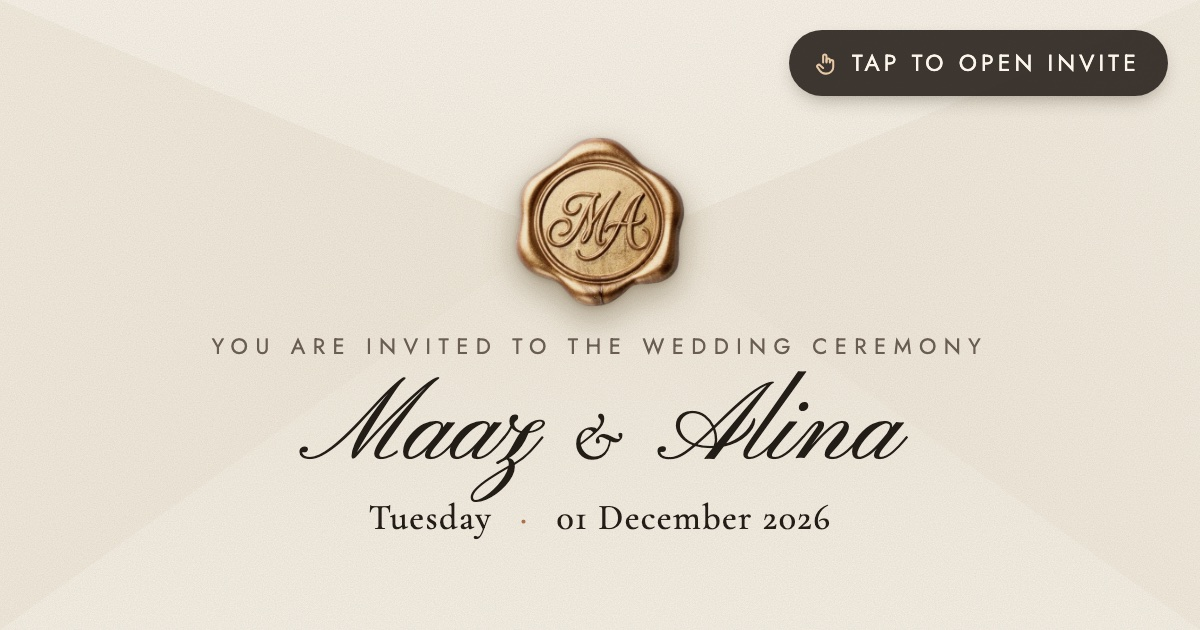
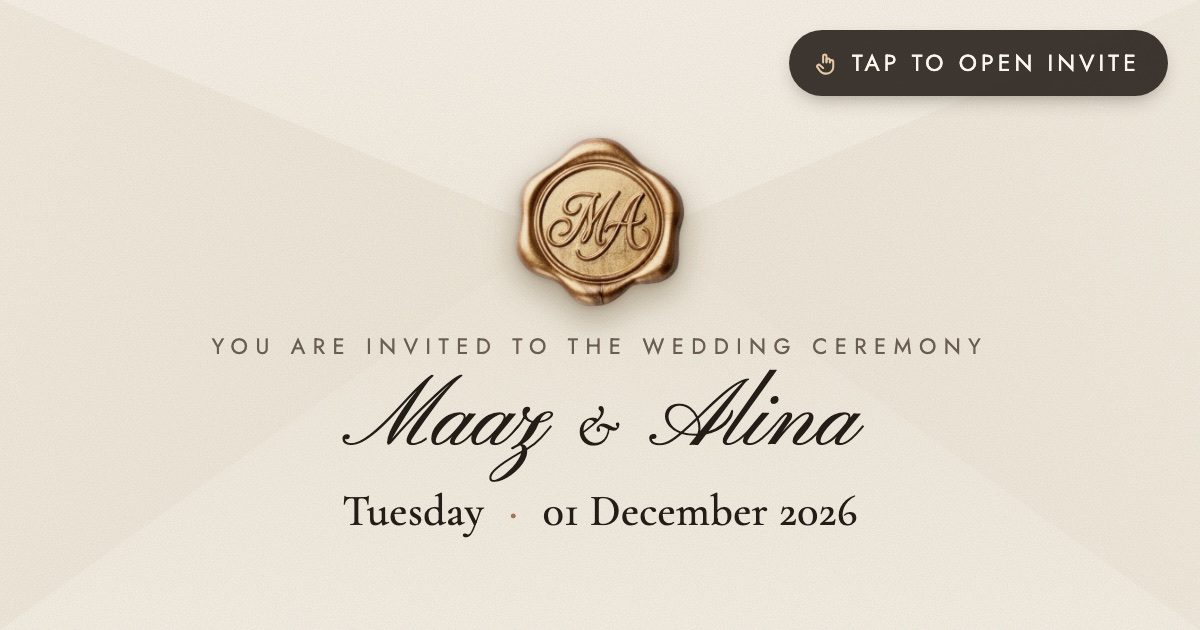
Preview cards: slightly smaller names, larger date line

Changed region(s): [[0.2467, 0.573, 0.7708, 0.7841], [0.2775, 0.7841, 0.7092, 0.8444]]

diff --git a/index.html b/index.html
@@ -10,7 +10,7 @@
   <meta property="og:url" content="https://maaz-alina.vercel.app/">
   <meta property="og:title" content="Maaz &amp; Alina · You are invited">
   <meta property="og:description" content="Wedding Ceremony · Tuesday 01 December &amp; Walima Reception · Thursday 03 December 2026. Tap to open your invitation.">
-  <meta property="og:image" content="https://maaz-alina.vercel.app/assets/img/og.jpg?v=5">
+  <meta property="og:image" content="https://maaz-alina.vercel.app/assets/img/og.jpg?v=6">
   <meta property="og:image:type" content="image/jpeg">
   <meta property="og:image:width" content="1200">
   <meta property="og:image:height" content="630">

diff --git a/barat-Akfarm-01/index.html b/barat-Akfarm-01/index.html
@@ -10,7 +10,7 @@
   <meta property="og:url" content="https://maaz-alina.vercel.app/barat-Akfarm-01/">
   <meta property="og:title" content="Maaz &amp; Alina · Wedding Ceremony">
   <meta property="og:description" content="Tuesday, 01 December 2026 · AK Farmhouse and Events, Lahore. Tap to open your invitation.">
-  <meta property="og:image" content="https://maaz-alina.vercel.app/assets/img/og-barat.jpg?v=5">
+  <meta property="og:image" content="https://maaz-alina.vercel.app/assets/img/og-barat.jpg?v=6">
   <meta property="og:image:type" content="image/jpeg">
   <meta property="og:image:width" content="1200">
   <meta property="og:image:height" content="630">

diff --git a/walima-zainab-03/index.html b/walima-zainab-03/index.html
@@ -10,7 +10,7 @@
   <meta property="og:url" content="https://maaz-alina.vercel.app/walima-zainab-03/">
   <meta property="og:title" content="Maaz &amp; Alina · Walima Reception">
   <meta property="og:description" content="Thursday, 03 December 2026 · Zainab Marquee, Khanpur. Tap to open your invitation.">
-  <meta property="og:image" content="https://maaz-alina.vercel.app/assets/img/og-walima.jpg?v=5">
+  <meta property="og:image" content="https://maaz-alina.vercel.app/assets/img/og-walima.jpg?v=6">
   <meta property="og:image:type" content="image/jpeg">
   <meta property="og:image:width" content="1200">
   <meta property="og:image:height" content="630">
